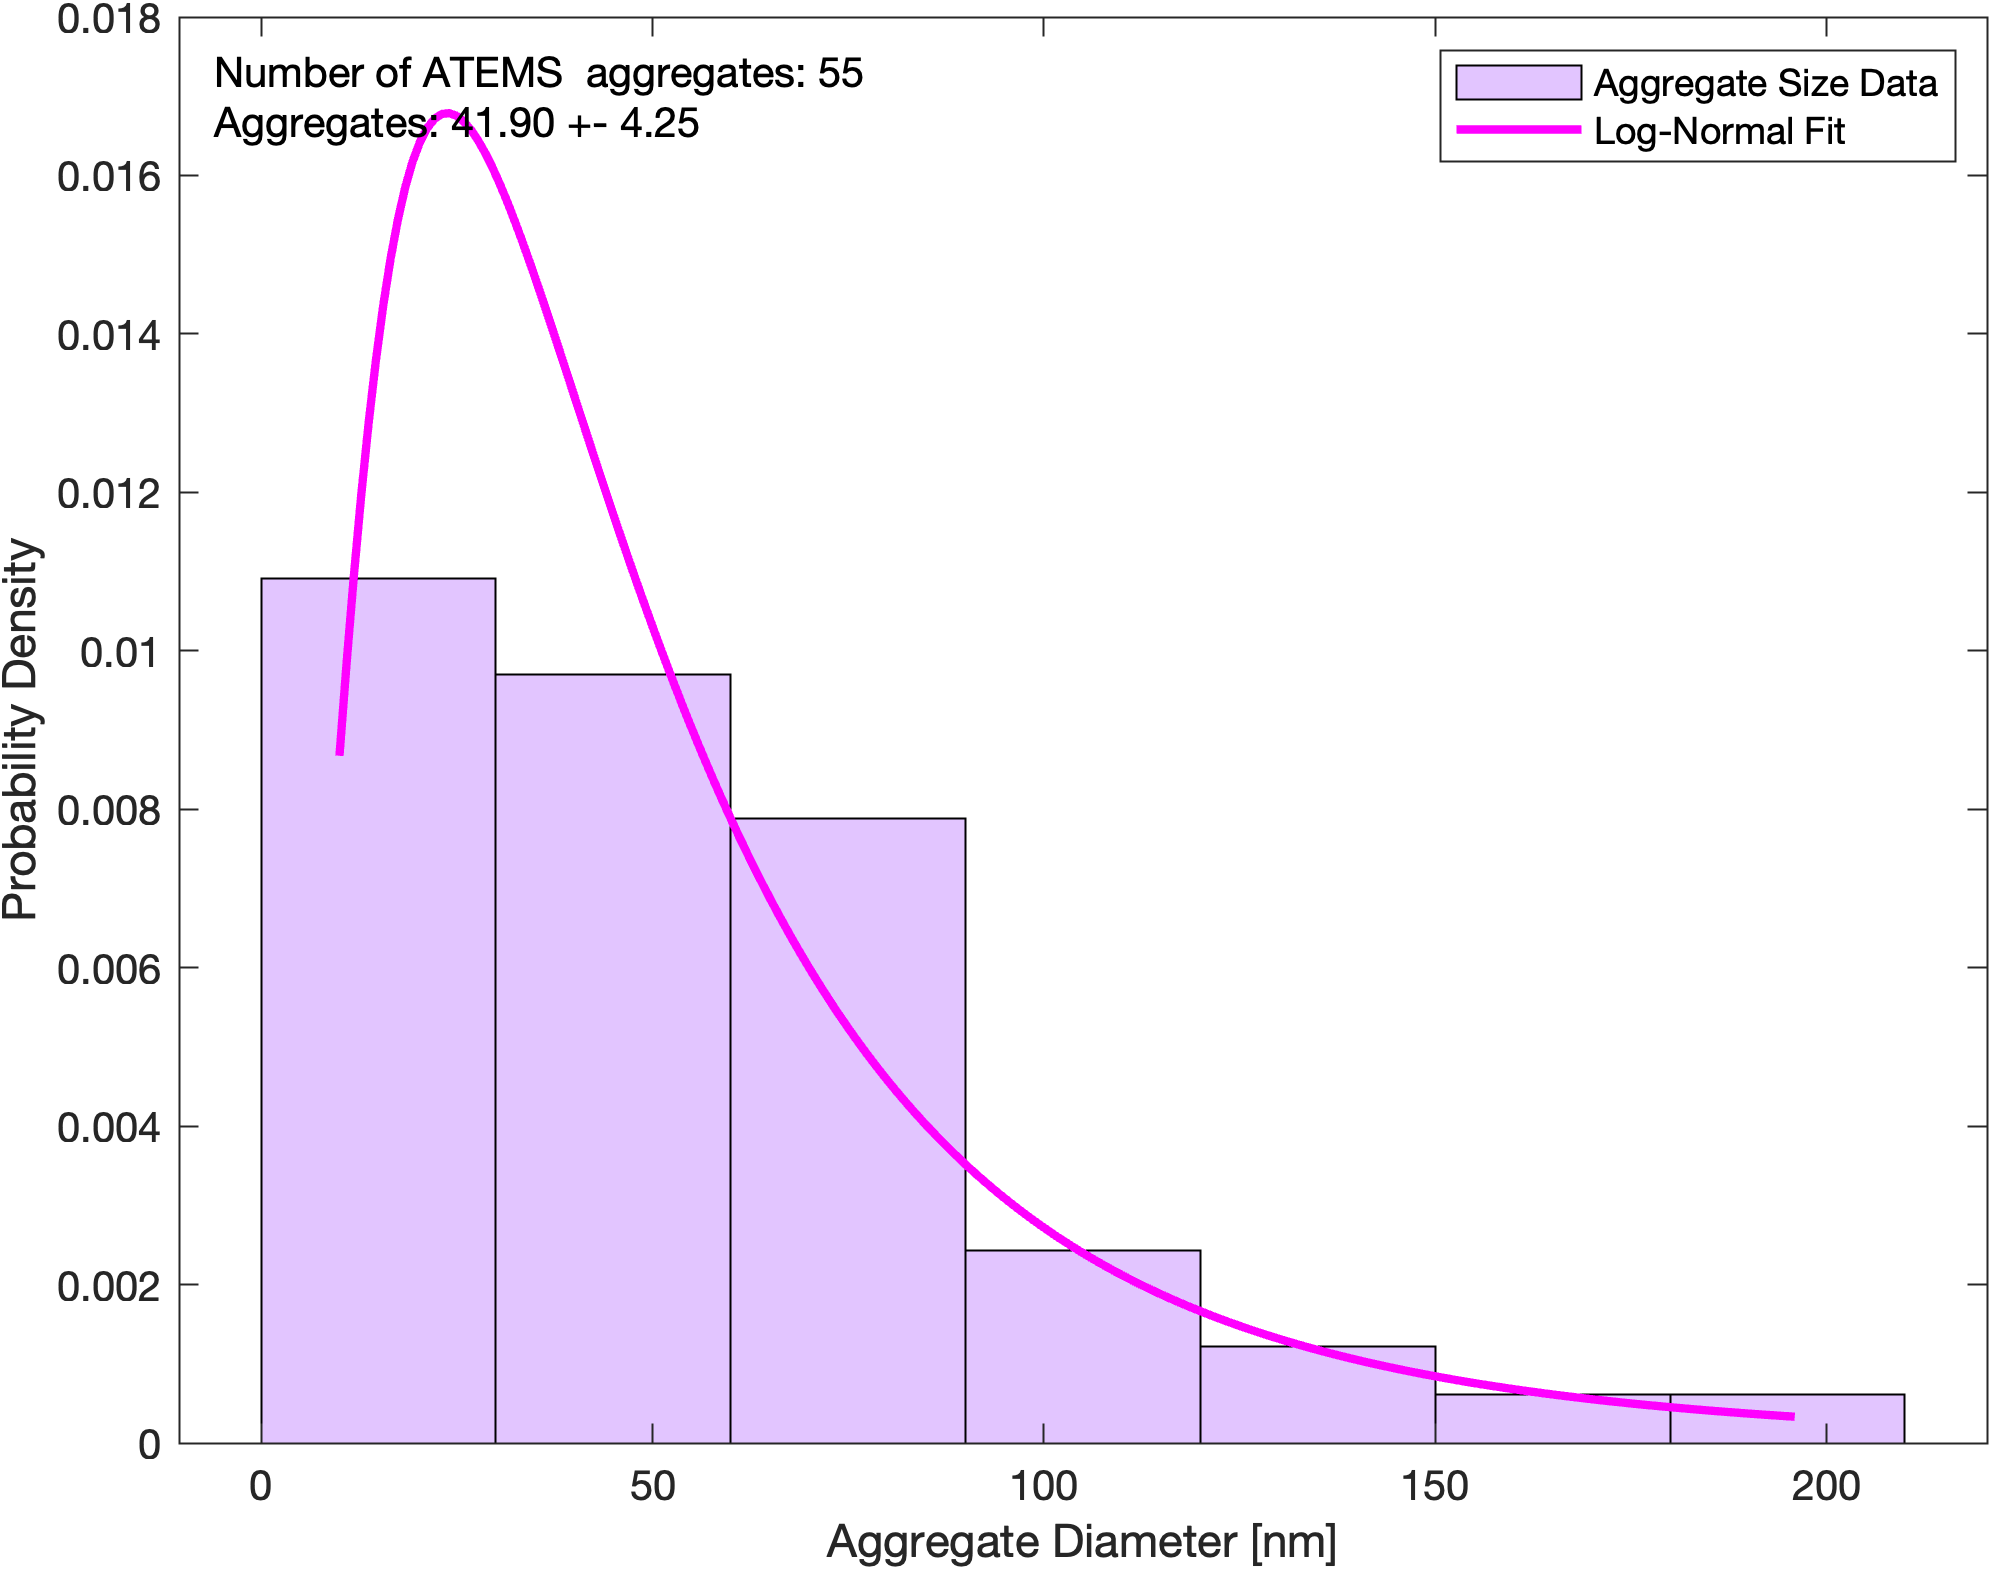
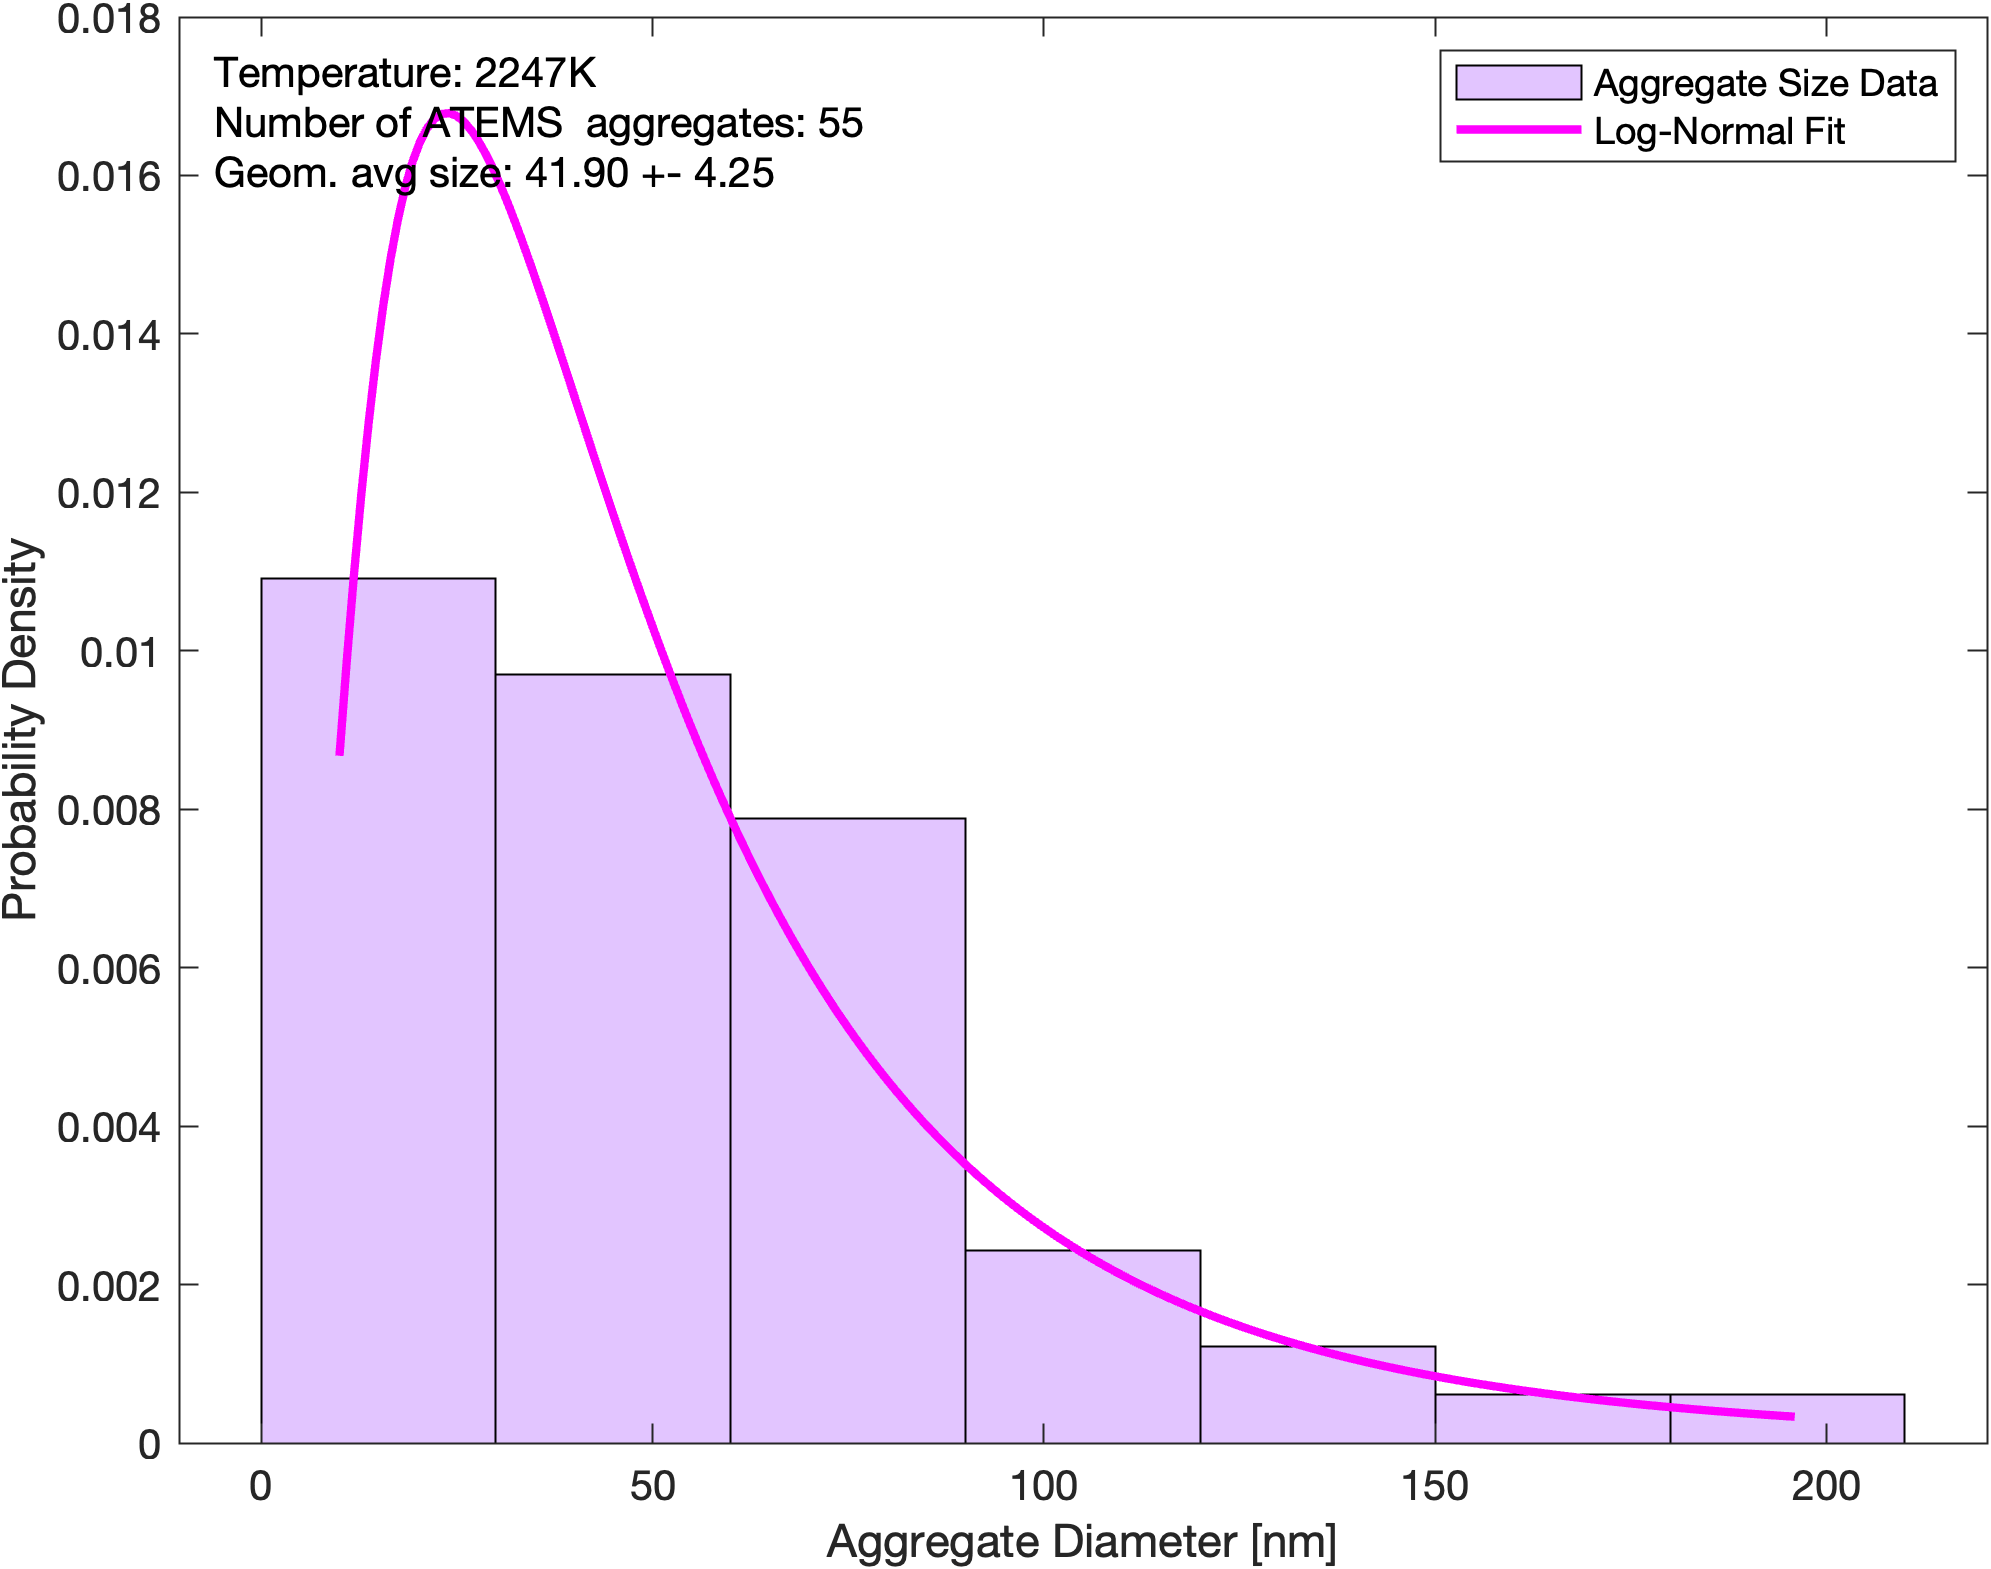
Tweaks to plots.

Changed region(s): [[0.0934, 0.0312, 0.436, 0.1249]]

diff --git a/chem277_postprocess_validation.m b/chem277_postprocess_validation.m
@@ -197,7 +197,7 @@ for i = 1:num_conditions
     dp_log_hand  = log(dp_temp_hand); mu_hand = mean(dp_log_hand);
     pd_hand      = fitdist(dp_temp_hand, 'Lognormal');         % RETURNS MU, SIGMA params for lognormal dist 
     mu_fit_hand  = pd_hand.mu;
-    hand_text = sprintf("Manual: %4.2f +- %4.2f",exp(pd_hand.mu),2*exp(pd_hand.sigma));
+    hand_text = sprintf("Geom. Avg. from manual: %4.2f +- %4.2f",exp(pd_hand.mu),2*exp(pd_hand.sigma));
     %disp(" ");
     %disp(hand_text);
     pdf_logNorm_hand(:,i) = pdf(pd_hand, x_range);             % produce pdf over range of dp vals prespecified
@@ -205,7 +205,7 @@ for i = 1:num_conditions
     dp_log_atems  = log(dp_temp_atems); mu_atems = mean(dp_log_atems);
     pd_atems      = fitdist(dp_temp_atems, 'Lognormal');         % RETURNS MU, SIGMA params for lognormal dist 
     mu_fit_atems  = pd_atems.mu;
-    atems_text = sprintf("ATEMS: %4.2f +- %4.2f",exp(pd_atems.mu),2*exp(pd_atems.sigma));
+    atems_text = sprintf("Geom. Avg. from ATEMS: %4.2f +- %4.2f",exp(pd_atems.mu),2*exp(pd_atems.sigma));
     %disp(atems_text);
     pdf_logNorm_atems(:,i) = pdf(pd_atems, x_range);             % produce pdf over range of dp vals prespecified
 
@@ -217,6 +217,7 @@ for i = 1:num_conditions
     if ~overlap
         subplot(2,1,1);
     end
+    what_temp = sprintf("Temperature: %dK",T5_hand);
     [counts, edges] = histcounts(dp_temp_hand, preset_edges);
     %figure("Name",sprintf("Hist.Hand: %dK",T5_hand));
     histogram(dp_temp_hand, edges,'FaceColor',"#0072BD",'Normalization', 'pdf','FaceAlpha',0.6); % Histogram of data
@@ -240,7 +241,7 @@ for i = 1:num_conditions
     which_hist_data = dp_temp_atems;
     histogram(which_hist_data, edges,'FaceColor',	"#D95319",'Normalization', 'pdf','FaceAlpha',0.6); % Histogram of data
     text(0.02,0.98,...
-        strcat([sprintf('Number of ATEMS  primary particles: %d\nNumber of manual primary particles: %d',length(which_hist_data), length(dp_temp_hand)),hand_text,atems_text]),...
+        strcat([what_temp,sprintf('Number of ATEMS  primary particles: %d\nNumber of manual primary particles: %d',length(which_hist_data), length(dp_temp_hand)),hand_text,atems_text]),...
         'Units','Normalized','HorizontalAlignment', 'left', 'VerticalAlignment', 'top');
     plot(x_range, pdf_logNorm_atems(:,i), 'r-', 'LineWidth', 2);              % Plot fitted log-normal curve  
     %title(['ATEMS: ', num2str(T5_atems),' K. N_agg: ', num2str(N_agg_tot_atems(i))]);
@@ -257,12 +258,12 @@ for i = 1:num_conditions
     agg_diams = (original_data_atems(original_data_atems.Temperature==T5_hand,:).da);
     log_agg_diams  = log(agg_diams); mu_agg_diams = mean(log_agg_diams);
     fit_agg_diams      = fitdist(agg_diams, 'Lognormal');
-    agg_text = sprintf("Aggregates: %4.2f +- %4.2f \n",exp(fit_agg_diams.mu),2*exp(fit_agg_diams.sigma));
+    agg_text = sprintf("Geom. avg size: %4.2f +- %4.2f \n",exp(fit_agg_diams.mu),2*exp(fit_agg_diams.sigma));
     %disp(agg_text);
     histogram(agg_diams,'FaceColor',"#CF9FFF",'Normalization', 'pdf','FaceAlpha',0.6);
     hold on;
     text(0.02,0.98,...
-        strcat([sprintf('Number of ATEMS  aggregates: %d',length(agg_diams)),agg_text]),...
+        strcat([what_temp,sprintf('Number of ATEMS  aggregates: %d',length(agg_diams)),agg_text]),...
         'Units','Normalized','HorizontalAlignment', 'left', 'VerticalAlignment', 'top');
     xvs = linspace(10,max(agg_diams),200);
     plot(xvs, pdf(fit_agg_diams, xvs), 'm-', 'LineWidth', 2);
